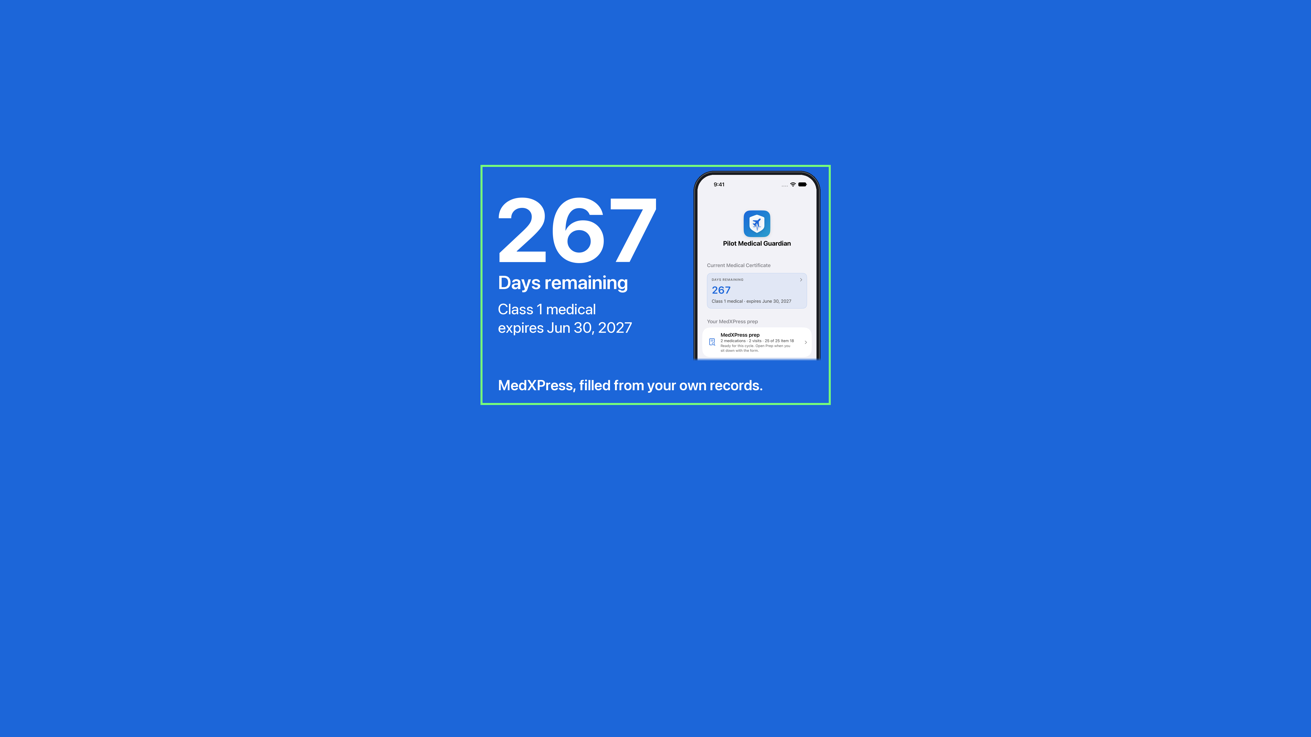
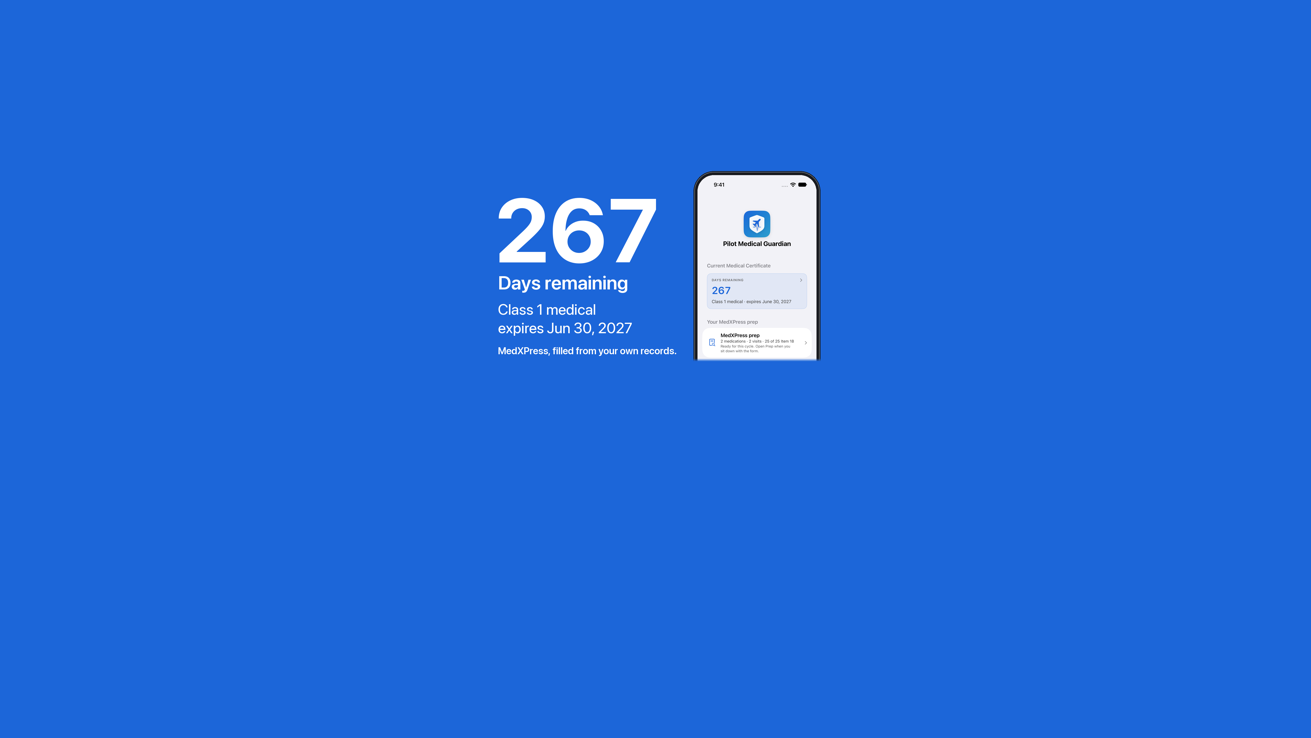
Header asset: MedXPress line moved directly under 'expires Jun 30, 2027', one line beside the phone (Ryan 10/7)
It sat on the safe area's bottom edge under the phone, where a tight crop loses it. Now 39px
(largest that fits the 722px column before the bezel), y 1378, inside the safe area. Previews:
safe-area crop, full canvas, and a 16:9 crop inside the safe area (a tighter search-style guess).

diff --git a/screenshots/asc/build-header-asset.py b/screenshots/asc/build-header-asset.py
@@ -12,6 +12,9 @@ authorization moved past it (otherwise it caps the countdown and adds an SI line
 pilot on the medical pathway only (no BasicMed cards). The seeder edits were local and reverted.
 The phone fades out under the MedXPress prep card so "What's next" (an SI item) never shows.
 
+10/7 (Ryan): the MedXPress line moved from the safe area's bottom edge to directly under "expires Jun 30, 2027",
+one line, in the text column beside the phone.
+
 Copy is exact and nothing else may be added: the number, "Days remaining", "Class 1 medical",
 "expires Jun 30, 2027", "MedXPress, filled from your own records." No price, URL, FAA approval
 or fit-to-fly wording, no second feature, no em dashes.
@@ -90,10 +93,21 @@ def main():
         d.text((x, y), text, font=f, fill=WHITE)
         y += f.getbbox(text)[3] + gap
 
+    # Ryan 2026-10-07: "Put it directly under 'expires Jun 30, 2027,' still small, still one line. The phone stays
+    # on the right." It sat on the safe area's bottom edge, under the phone, where a tight crop loses it. It now
+    # sits in the text column, so it must fit between the column's left edge and the phone: the largest size up to
+    # the old 58 that does.
     line = "MedXPress, filled from your own records."
-    lf = font(58, 600)
-    d.text((x, SY1 - 48 - lf.getbbox(line)[3]), line, font=lf, fill=WHITE)
-    assert d.textlength(line, font=lf) + x <= SX1, "line overruns the safe area"
+    limit = px - 60 - x                              # stop short of the phone's bezel
+    size = 58
+    while d.textlength(line, font=font(size, 600)) > limit:
+        size -= 1
+    lf = font(size, 600)
+    y += 36
+    d.text((x, y), line, font=lf, fill=WHITE)
+    assert d.textlength(line, font=lf) <= limit, "line runs into the phone"
+    assert y + lf.getbbox(line)[3] <= SY1, "line falls below the safe area"
+    print("MedXPress line:", size, "px at y", y, "width", round(d.textlength(line, font=lf)), "of", limit)
 
     out = os.path.join(BASE, "pmg-universal-5244x2950.png")
     canvas.save(out, optimize=True)
